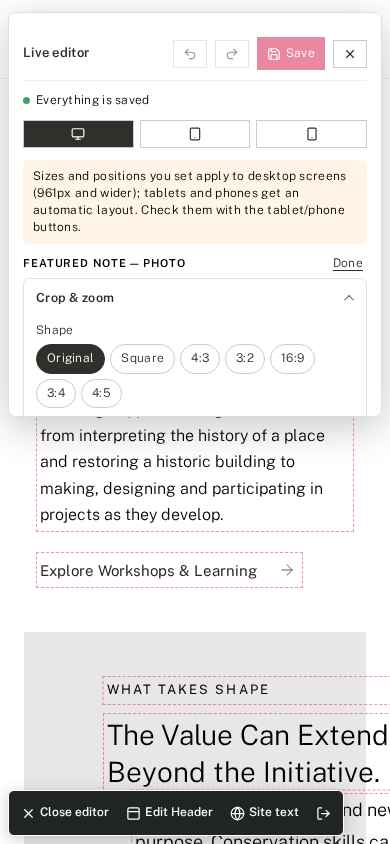
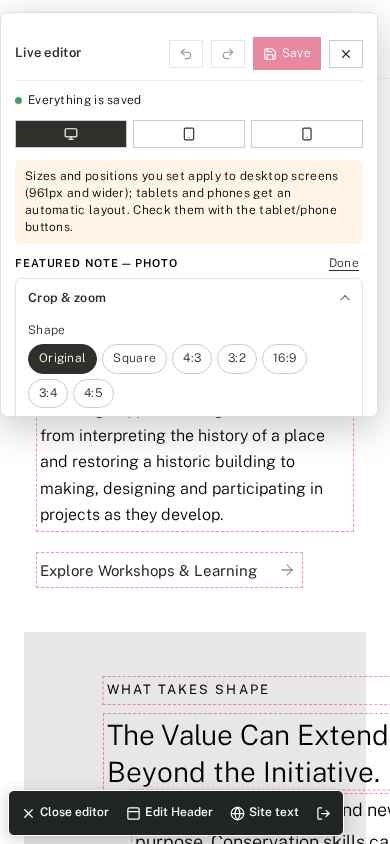
checkpoint before testing_agent_full_stack_o55
Emergent-Commit-Key: d4d32dcde02660a36a51f20d545e1f0db00564d08cb30740363e37804eebef26

diff --git a/frontend/src/components/public/LiveEditor.jsx b/frontend/src/components/public/LiveEditor.jsx
@@ -396,6 +396,17 @@ function Editor({ pageKey, content, setContent, original, remount, noteId }) {
       if (dir.includes("w")) { const nw = Math.max(40, Math.round(w0 - dx)); patch.width = `${nw}px`; patch.translateX = `${tx0 + (w0 - nw)}px`; }
       if (dir.includes("s")) patch.height = `${Math.max(20, Math.round(h0 + dy))}px`;
       if (dir.includes("n")) { const nh = Math.max(20, Math.round(h0 - dy)); patch.height = `${nh}px`; patch.translateY = `${ty0 + (h0 - nh)}px`; }
+      // Keep the opposite edge fixed when flex alignment repositions a resized action.
+      if (el?.dataset.editGroup === "action") {
+        for (const [size, variable] of [["width", "--ed-w"], ["height", "--ed-h"]]) {
+          if (patch[size]) { el.style.setProperty(size, patch[size], "important"); el.style.setProperty(variable, patch[size]); }
+        }
+        el.style.setProperty("--ed-t", `translate(${tx0}px, ${ty0}px)`);
+        el.style.setProperty("transform", "var(--ed-t)", "important");
+        const resized = el.getBoundingClientRect();
+        if (patch.width) patch.translateX = `${tx0 + (dir.includes("w") ? r0.right - resized.width : r0.left) - resized.left}px`;
+        if (patch.height) patch.translateY = `${ty0 + (dir.includes("n") ? r0.bottom - resized.height : r0.top) - resized.top}px`;
+      }
       setStyles(patch); setGuides(gls);
     };
     const up = () => { endDrag(); setGuides([]); window.removeEventListener("pointermove", mv); window.removeEventListener("pointerup", up); };
@@ -695,10 +706,22 @@ function Group({ title, open = false, testid, children }) {
 
 function SectionStyle({ sec, onChange }) {
   const s = (sec.styles || {})._section || {};
-  const root = document.querySelector(`[data-sec="${CSS.escape(sec.id)}"]`);
-  const inner = sec.data?.layout === "rakhigarhi-ambition-aligned" ? root?.querySelector(":scope > section") : root;
-  const padding = inner ? window.getComputedStyle(inner) : null;
-  const placeholder = (key) => String(Math.round(parseFloat(padding?.[key]) || 0));
+  const [placeholders, setPlaceholders] = useState({});
+  useEffect(() => {
+    const root = document.querySelector(`[data-sec="${CSS.escape(sec.id)}"]`);
+    const inner = sec.data?.layout === "rakhigarhi-ambition-aligned" ? root?.querySelector(":scope > section") : root;
+    if (!inner) return undefined;
+    const measure = () => {
+      const computed = window.getComputedStyle(inner);
+      setPlaceholders({ paddingTop: String(Math.round(parseFloat(computed.paddingTop) || 0)), paddingBottom: String(Math.round(parseFloat(computed.paddingBottom) || 0)) });
+    };
+    measure();
+    const observer = new ResizeObserver(measure);
+    observer.observe(inner);
+    window.addEventListener("resize", measure);
+    return () => { observer.disconnect(); window.removeEventListener("resize", measure); };
+  }, [sec]);
+  const placeholder = (key) => placeholders[key] || "0";
   return (
     <>
       <div className="live-row">

diff --git a/tests/iter20_panel_side_and_placeholders.py b/tests/iter20_panel_side_and_placeholders.py
@@ -1,0 +1,108 @@
+# Iter20 NO-WRITE: auto panel side for right-half selections, east handle drag reachable, explicit side toggle, mobile side,
+# undo/redo hit, Ambition section padding placeholders (computed). All non-GET /api requests blocked; nothing saved.
+import asyncio, os
+from playwright.async_api import async_playwright
+from dotenv import load_dotenv
+load_dotenv("/app/frontend/.env")
+BASE = os.environ["REACT_APP_BACKEND_URL"].rstrip("/")
+RES, BLOCKED = [], []
+def ok(n, c, info=""): RES.append((n, bool(c))); print(("PASS " if c else "FAIL ") + n, info)
+PANEL = """() => { const p=document.querySelector('[data-testid=live-editor-panel]'); if(!p) return {missing:true, sel:document.querySelector('[data-testid=live-selected-label]')?.innerText||null, ui:[...document.querySelectorAll('.live-ui')].map(e=>e.dataset.testid)}; const r=p.getBoundingClientRect();
+ const hit=(t)=>{const el=document.querySelector(`[data-testid=${t}]`); if(!el) return null; const b=el.getBoundingClientRect(); const e=document.elementFromPoint(b.left+b.width/2,b.top+b.height/2); return !!e&&el.contains(e)};
+ const sb=document.querySelector('[data-testid=live-panel-side]');
+ return {side:p.dataset.panelSide, top:Math.round(r.top), left:Math.round(r.left), right:Math.round(innerWidth-r.right), save:hit('live-save-btn'), exit:hit('live-exit-btn'), undo:hit('live-undo'), redo:hit('live-redo'),
+   sideBtnVisible: !!sb && getComputedStyle(sb).display!=='none' && sb.getBoundingClientRect().width>0} }"""
+GEOM = """(tid) => { const a=document.querySelector(`[data-testid="${tid}"]`); const t=a.querySelector('[data-edit-text]'), s=a.querySelector('svg'); const ar=a.getBoundingClientRect(), tr=t.getBoundingClientRect(), sr=s.getBoundingClientRect();
+ return {aw:Math.round(ar.width), ax:Math.round(ar.left), tx:Math.round(tr.left), sx:Math.round(sr.left), gap:Math.round(sr.left-tr.right), vc:Math.round(Math.abs((sr.top+sr.height/2)-(tr.top+tr.height/2))), lines:t.getClientRects().length, txt:t.innerText} }"""
+EHIT = """() => { const h=document.querySelector('[data-testid=live-resize-e]'); if(!h) return null; const r=h.getBoundingClientRect(); const e=document.elementFromPoint(r.left+r.width/2,r.top+r.height/2);
+ return {x:Math.round(r.left), hit: !!e && (e===h || h.contains(e)), by: e && (e.closest('[data-testid=live-editor-panel]')?'PANEL':(e.dataset.testid||String(e.className).slice(0,40)))} }"""
+
+async def main():
+    async with async_playwright() as pw:
+        b = await pw.chromium.launch(); ctx = await b.new_context(viewport={"width": 1920, "height": 1080})
+        async def block(route):
+            if route.request.method != "GET" and "/auth/" not in route.request.url: BLOCKED.append(route.request.url); return await route.abort()
+            await route.continue_()
+        await ctx.route("**/api/**", block)
+        page = await ctx.new_page(); errs = []; page.on("pageerror", lambda e: errs.append(str(e))); page.on("dialog", lambda d: asyncio.ensure_future(d.accept()))
+        await page.goto(BASE + "/admin/login"); await page.fill('[data-testid="login-email"]', "admin@uspindia.org"); await page.fill('[data-testid="login-password"]', "M-8iH7yaR-980GZW")
+        await page.click('[data-testid="login-submit"]'); await page.wait_for_url(lambda u: "/admin" in u and "/login" not in u, timeout=20000)
+        try:
+            await page.goto(BASE + "/?edit=1"); await page.wait_for_selector('[data-testid="live-editor-panel"]', timeout=25000); await page.wait_for_timeout(2000)
+            p0 = await page.evaluate(PANEL); ok("load: panel right top12, side btn visible, save/exit/undo/redo hit", p0["side"] == "right" and p0["top"] == 12 and p0["sideBtnVisible"] and p0["save"] and p0["exit"] and p0["undo"] and p0["redo"], p0)
+            tid = await page.evaluate("()=>{const e=[...document.querySelectorAll('[data-edit-group=action]')].find(e=>/Field Notes/i.test(e.innerText)); return e&&e.dataset.testid}")
+            print("explore notes tid", tid)
+            loc = page.locator(f'[data-testid="{tid}"] svg'); await loc.scroll_into_view_if_needed(); await page.wait_for_timeout(300)
+            await loc.click(force=True); await page.wait_for_timeout(800)
+            g0 = await page.evaluate(GEOM, tid); print("before", g0)
+            p1 = await page.evaluate(PANEL); ok("select right-half Explore Field Notes -> panel LEFT, top12, buttons hit", p1["side"] == "left" and p1["top"] == 12 and p1["left"] == 12 and p1["save"] and p1["exit"], p1)
+            # no loop: side stays stable over time
+            sides = []
+            for _ in range(6): await page.wait_for_timeout(250); sides.append(await page.evaluate("document.querySelector('[data-testid=live-editor-panel]').dataset.panelSide"))
+            ok("no side-switch loop (stable 1.5s)", set(sides) == {"left"}, sides)
+            eh = await page.evaluate(EHIT); ok("east handle reachable via elementFromPoint", eh and eh["hit"], eh)
+            h = page.locator('[data-testid="live-resize-e"]'); hb = await h.bounding_box()
+            await page.mouse.move(hb["x"] + hb["width"] / 2, hb["y"] + hb["height"] / 2); await page.mouse.down()
+            await page.mouse.move(hb["x"] + hb["width"] / 2 + 50, hb["y"] + hb["height"] / 2, steps=8); await page.mouse.up(); await page.wait_for_timeout(600)
+            g1 = await page.evaluate(GEOM, tid); print("after east drag", g1)
+            ok("east drag grows width; text+arrow together single line", g1["aw"] > g0["aw"] + 20 and g1["lines"] == 1 and g1["vc"] <= 4 and 0 <= g1["gap"] <= 16 and abs(g1["sx"] - g1["tx"] - (g0["sx"] - g0["tx"])) <= 60, (g0, g1))
+            print("INFO right edge before/after", g0["ax"] + g0["aw"], g1["ax"] + g1["aw"])
+            p2 = await page.evaluate(PANEL); ok("after drag panel still left/top12", p2["side"] == "left" and p2["top"] == 12, p2)
+            sides = []
+            for _ in range(4): await page.wait_for_timeout(250); sides.append(await page.evaluate("document.querySelector('[data-testid=live-editor-panel]').dataset.panelSide"))
+            ok("no loop after drag", set(sides) == {"left"}, sides)
+            # undo local change via real mouse click (hit test)
+            await page.locator('[data-testid="live-undo"]').click(timeout=5000); await page.wait_for_timeout(500)
+            gu = await page.evaluate(GEOM, tid); ok("real mouse click undo restores width", abs(gu["aw"] - g0["aw"]) <= 2, (gu["aw"], g0["aw"]))
+            # explicit toggle
+            await page.locator('[data-testid="live-panel-side"]').click(timeout=5000); await page.wait_for_timeout(500)
+            p3 = await page.evaluate(PANEL); ok("toggle -> right, top unchanged 12", p3["side"] == "right" and p3["top"] == 12 and p3["right"] == 12, p3)
+            await page.locator('[data-testid="live-panel-side"]').click(timeout=5000); await page.wait_for_timeout(500)
+            p4 = await page.evaluate(PANEL); ok("toggle -> left, top unchanged 12", p4["side"] == "left" and p4["top"] == 12 and p4["left"] == 12, p4)
+            # selecting a left-half element returns right
+            lh = await page.evaluate("()=>{const e=[...document.querySelectorAll('main [data-edit]')].find(e=>{const r=e.getBoundingClientRect(); return r.right<innerWidth/2-20 && r.width>40 && r.top>0 && r.bottom<innerHeight}); if(e) e.setAttribute('data-t1','l'); return !!e}")
+            if lh:
+                await page.locator("[data-t1=l]").click(force=True); await page.wait_for_timeout(600)
+                p5 = await page.evaluate(PANEL); ok("left-half selection -> panel right top12", p5["side"] == "right" and p5["top"] == 12, p5)
+            # mobile
+            await page.locator(f'[data-testid="{tid}"] svg').scroll_into_view_if_needed(); await page.locator(f'[data-testid="{tid}"] svg').click(force=True); await page.wait_for_timeout(500)
+            for vw, vh in ((768, 1024), (390, 844)):
+                await page.set_viewport_size({"width": vw, "height": vh}); await page.wait_for_timeout(700)
+                pm = await page.evaluate(PANEL)
+                ok(f"{vw}: panel at right/top12, side btn hidden, save hit", pm["right"] in (8, 12) and pm["top"] == 12 and not pm["sideBtnVisible"] and pm["save"], pm)
+                if await page.locator(f'[data-testid="{tid}"]').count():
+                    await page.evaluate(f"document.querySelector('[data-testid={tid}] svg').scrollIntoView({{block:'end'}}); scrollBy(0,-120)"); await page.wait_for_timeout(500)
+                    print("INFO hit at arrow:", await page.evaluate(f"()=>{{const r=document.querySelector('[data-testid={tid}] svg').getBoundingClientRect(); const e=document.elementFromPoint(r.left+r.width/2,r.top+r.height/2); return [Math.round(r.top), e&&(e.closest('[data-testid]')?.dataset.testid)]}}"))
+                    await page.locator(f'[data-testid="{tid}"] svg').click(); await page.wait_for_timeout(500)
+                    pm2 = await page.evaluate(PANEL); print("pm2", pm2, "url", page.url); ok(f"{vw}: after selecting, still right/top12", pm2 and not pm2.get("missing") and pm2["right"] in (8, 12) and pm2["top"] == 12, pm2)
+            await page.set_viewport_size({"width": 1920, "height": 1080})
+            # Ambition placeholders
+            for vw, vh, exp in ((1920, 1080, ("72", "64")), (390, 844, ("40", "40"))):
+                await page.set_viewport_size({"width": vw, "height": vh})
+                await page.goto(BASE + "/our-work/rakhigarhi?edit=1"); await page.wait_for_selector('[data-testid="live-editor-panel"]', timeout=50000); await page.wait_for_timeout(2000)
+                st = page.locator("#the-ambition .stacked").first; await page.evaluate("document.querySelector('#the-ambition .stacked').scrollIntoView({block:'end'})"); await page.wait_for_timeout(1200); bb = await st.bounding_box()
+                bb = {**bb, "y": bb["y"] + bb["height"] - 60 - 15}
+                print("INFO ambition click target:", await page.evaluate(f"(()=>{{const e=document.elementFromPoint({bb['x'] + bb['width'] / 2},{bb['y'] + 15}); return e&&(e.closest('[data-testid]')?.dataset.testid||e.className)}})()"))
+                await page.mouse.click(bb["x"] + bb["width"] / 2, bb["y"] + 15); await page.wait_for_timeout(800)
+                pt, pb = page.locator('[data-testid="live-sec-pad-top"]'), page.locator('[data-testid="live-sec-pad-bottom"]')
+                if not await pt.count(): ok(f"{vw} ambition pad inputs present", False); continue
+                if not await pt.is_visible(): await page.evaluate("()=>document.querySelectorAll('[data-testid=live-editor-panel] details').forEach(d=>d.open=true)"); await page.wait_for_timeout(300)
+                ph = (await pt.get_attribute("placeholder"), await pb.get_attribute("placeholder")); vals = (await pt.input_value(), await pb.input_value())
+                actual = await page.evaluate("()=>{const s=document.querySelector('#the-ambition > section')||document.querySelector('#the-ambition section'); const c=getComputedStyle(s); return [String(Math.round(parseFloat(c.paddingTop))), String(Math.round(parseFloat(c.paddingBottom)))]}")
+                ok(f"{vw} ambition placeholders show computed padding", ph == exp and list(ph) == actual and vals == ("", ""), (ph, actual, vals))
+                h0 = await page.evaluate("document.querySelector('#the-ambition').getBoundingClientRect().height")
+                await pb.fill("20"); await page.wait_for_timeout(500)
+                a2 = await page.evaluate("()=>{const s=document.querySelector('#the-ambition > section')||document.querySelector('#the-ambition section'); return [Math.round(parseFloat(getComputedStyle(s).paddingBottom)), document.querySelector('#the-ambition').getBoundingClientRect().height]}")
+                ok(f"{vw} setting bottom 20 sets actual inner padding (not additive)", a2[0] == 20 and a2[1] < h0, (a2, h0))
+                await pb.fill(""); await page.wait_for_timeout(500)
+                await page.wait_for_timeout(1000); ph2 = await pb.get_attribute("placeholder")
+                act2 = await page.evaluate("()=>{const s=document.querySelector('#the-ambition > section')||document.querySelector('#the-ambition section'); return Math.round(parseFloat(getComputedStyle(s).paddingBottom))}")
+                print("INFO after clear: placeholder", ph2, "actual", act2)
+                await pt.fill("5"); await page.wait_for_timeout(400); await pt.fill(""); await page.wait_for_timeout(600)
+                print("INFO after another rerender: placeholder bottom", await pb.get_attribute("placeholder"), "top", await pt.get_attribute("placeholder"))
+                ok(f"{vw} cleared -> placeholder back to default", ph2 == exp[1], ph2)
+        except Exception as e:
+            ok("EXCEPTION", False, repr(e)[:400])
+        print("page errors", errs[:5]); print("blocked writes:", BLOCKED); await b.close()
+    print(f"TOTAL {sum(r for _, r in RES)}/{len(RES)}; FAILS:", [n for n, r in RES if not r])
+asyncio.run(main())
